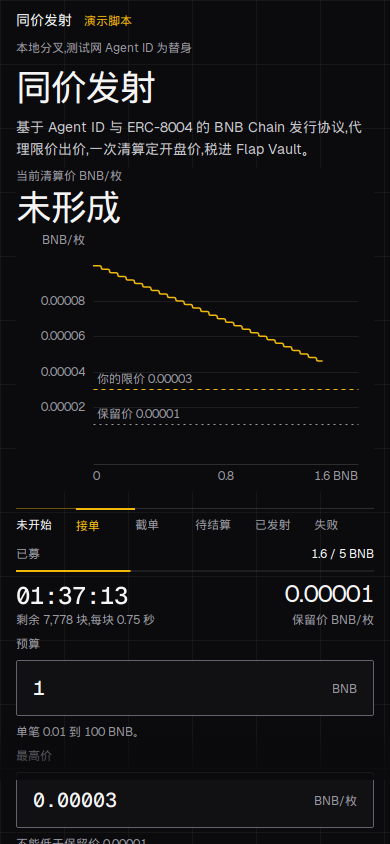
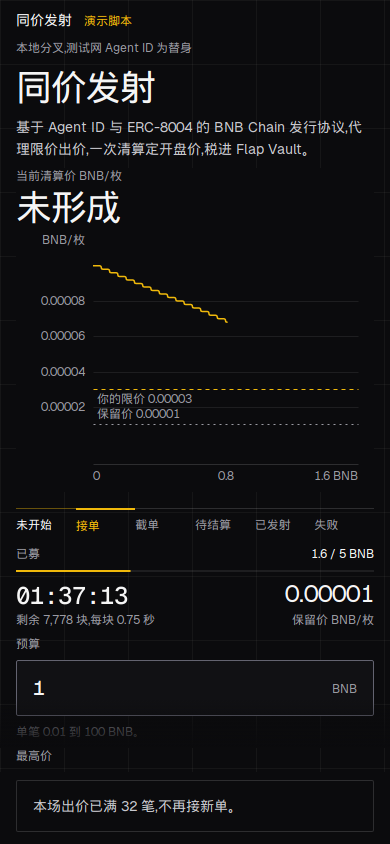
Pin the phone action to the bottom of the screen.
The full-book notice and the closed-auction note were scrolling away under the chart. They now sit on a solid bar, and the bid button stays clear of the field behind it.

diff --git a/web/src/styles.css b/web/src/styles.css
@@ -226,7 +226,6 @@ label { display: block; margin-top: var(--space-2); font-size: var(--fs-12); lin
 .help, .estimate, .field-help { min-height: 16px; margin: var(--space-2) 0 0; font-size: var(--fs-12); line-height: var(--lh-16); color: var(--muted); }
 .help.bad, .estimate.bad { color: var(--text); }
 .mark { display: inline-block; width: 6px; height: 6px; margin-right: var(--space-2); border: 1px solid var(--accent); vertical-align: 1px; }
-.mark.solid { background: var(--accent); }
 button.primary {
   margin-top: var(--space-2);
   width: 100%;
@@ -249,6 +248,7 @@ button.primary:disabled { opacity: 0.4; cursor: default; }
 .window.ro:hover { border-color: var(--edge); }
 .seg[data-lock="1"] { pointer-events: none; }
 .notice {
+  background: var(--bg);
   min-height: 48px;
   display: flex;
   align-items: center;
@@ -466,7 +466,6 @@ svg.plot { display: block; touch-action: none; background: var(--bg); }
 .tip p { margin: 0; }
 .cross { stroke: var(--muted); stroke-width: 1px; }
 .dock-fade { display: none; }
-.retry { margin-left: var(--space-2); color: var(--text-2); font-size: var(--fs-12); }
 @keyframes draw-x { from { transform: scaleX(0); } to { transform: scaleX(1); } }
 @keyframes sweep-x { from { transform: scaleX(0); } to { transform: scaleX(1); } }
 @keyframes ring-once { from { transform: scale(0.6); } to { transform: scale(1); } }
@@ -480,7 +479,7 @@ svg.plot { display: block; touch-action: none; background: var(--bg); }
   .top, .screen { padding-left: var(--pad-m); padding-right: var(--pad-m); }
   .top-meta { display: none; }
   .status-line { display: block; padding: 0 var(--pad-m) var(--space-2); font-size: var(--fs-12); line-height: var(--lh-16); color: var(--muted); }
-  .screen { display: block; padding-bottom: 108px; }
+  .screen { display: block; padding-bottom: 128px; }
   .grid { display: flex; flex-direction: column; gap: var(--space-2); height: auto; }
   .col-chart { order: 2; }
   .col-form { order: 3; }
@@ -492,21 +491,28 @@ svg.plot { display: block; touch-action: none; background: var(--bg); }
   .plaque .row { display: flex; flex-wrap: wrap; grid-template-columns: none; }
   .plaque .addr { margin-right: auto; }
   .bid { height: 40px; }
-  button.primary {
+  .action {
     position: fixed;
-    left: var(--pad-m);
-    right: var(--pad-m);
-    bottom: var(--space-3);
-    width: auto;
+    left: 0;
+    right: 0;
+    bottom: 0;
     z-index: 4;
+    margin-top: 0;
+    padding: var(--space-2) var(--pad-m) var(--space-3);
+    background: var(--bg);
+  }
+  button.primary {
+    position: static;
+    width: 100%;
     height: 52px;
   }
+  .action .notice { min-height: 52px; }
   .dock-fade {
     display: block;
     position: fixed;
     left: 0;
     right: 0;
-    bottom: 64px;
+    bottom: 96px;
     height: 48px;
     background: linear-gradient(to top, var(--bg), transparent);
     pointer-events: none;

diff --git a/web/src/PlotStage.tsx b/web/src/PlotStage.tsx
@@ -57,8 +57,6 @@ export function PlotStage({ bids, floor, clearing, failed, settle, intro, reduce
   const targetRef = useRef(target);
   targetRef.current = target;
   const svgRef = useRef<SVGSVGElement>(null);
-  const strokeRef = useRef<SVGPathElement>(null);
-  const fillRef = useRef<SVGPathElement>(null);
   const vRef = useRef<SVGLineElement>(null);
   const tipRef = useRef<HTMLDivElement>(null);
   const tipLines = useRef<Array<HTMLParagraphElement | null>>([]);
@@ -255,7 +253,7 @@ export function PlotStage({ bids, floor, clearing, failed, settle, intro, reduce
           {failed && plot.stroke && <path className="step failed" d={plot.stroke} />}
           {!failed && plot.inStroke && <path className={settle ? "step-in ghost" : "step-in"} d={plot.inStroke} />}
           {!failed && plot.outStroke && <path className="step-out" d={plot.outStroke} />}
-          {!failed && !plot.inStroke && plot.stroke && <path ref={strokeRef} className="step" d={plot.stroke} />}
+          {!failed && !plot.inStroke && plot.stroke && <path className="step" d={plot.stroke} />}
         </g>
         <line className="reserve" x1={hair(plot.left)} x2={hair(plot.right)} y1={hair(plot.reserveY)} y2={hair(plot.reserveY)} />
         <text className="tick" x={plot.left + 4} y={Math.min(plot.bottom - 4, Math.max(14, plot.reserveY + (plot.clearingY != null && Math.abs(plot.clearingY - plot.reserveY) < 18 ? 14 : -6)))}>

diff --git a/web/src/App.tsx b/web/src/App.tsx
@@ -561,7 +561,7 @@ export function App() {
 
   return (
     <div className={showIntro ? "page intro" : "page"}>
-      {button ? <div className="dock-fade" aria-hidden="true" /> : null}
+      {snap ? <div className="dock-fade" aria-hidden="true" /> : null}
       <a className="skip" href="#desk">跳到拍卖</a>
       <header className="top">
         <b>
